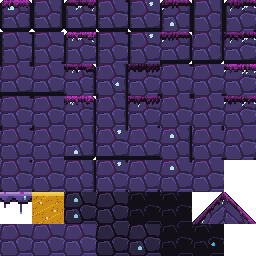
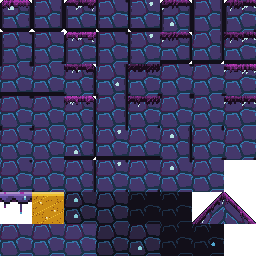
Pass 560: the Evercrown's cells are lit by their pores (#631)
The Evercrown's tiles were violet on a wine backdrop (the pass 555 grade's
leftover). paint_meteor keeps its black-violet body; the lit rim of each cell
is sky-3 and the cool seams sky-1, the cyan pores' light. The atlas's mean hue
moves from 261 to 246, 49 degrees off the haze. Design bible 12.50.

diff --git a/tools/art/test_tilegen.py b/tools/art/test_tilegen.py
@@ -1207,6 +1207,41 @@ def test_the_evercrown_keeps_red_for_what_hurts():
         assert _uses(tg.Image.open(root / rel), ember) == 0, f"{rel} carries no ember"
 
 
+def _hue(rgb):
+    import colorsys
+    return colorsys.rgb_to_hls(rgb[0] / 255, rgb[1] / 255, rgb[2] / 255)[0] * 360
+
+
+def test_the_evercrown_cells_are_lit_by_their_pores():
+    # Design bible 12.50 (pass 560): the Evercrown's tiles were violet on a wine
+    # backdrop, a smaller hue step than Vorrhallow's. The cells keep a black-violet
+    # body (the night ramp), and their lit rim and cool seams are on the sky ramp
+    # (sky-3, sky-1): the cyan pores' light. The warm seams stay wine. (Putting the
+    # rim back on night-3 or the seam on night-1 fails; so does a blue body.)
+    T = tg.T
+    tile = tg.Image.new("RGBA", (T, T), tg.CLEAR)
+    tg.paint_meteor(tile, 0, 0, 101, "night")
+    n = T * T
+    body = _uses(tile, {tg.c("night-2")[:3]})
+    rim = _uses(tile, {tg.c("sky-3")[:3]})
+    cool = _uses(tile, {tg.c("sky-1")[:3]})
+    warm = _uses(tile, {tg.c("crystal-1")[:3]})
+    assert body / n >= 0.5, f"the cells' body is black-violet ({body}/{n})"
+    assert 0.08 <= rim / n <= 0.3, f"the lit rim is the pores' blue, a line not a fill ({rim}/{n})"
+    assert cool > 0 and warm > 0, "the seams are cool shadow and wine sinew"
+    assert _uses(tile, {tg.c("night-3")[:3], tg.c("night-1")[:3]}) == 0, "no violet rim or seam is left"
+    # The fill's mean hue leaves the night ramp's violet (about 255) for indigo,
+    # away from the wine haze (about 295).
+    px = tile.load()
+    mean = [sum(px[x, y][i] for x in range(T) for y in range(T)) / n for i in range(3)]
+    assert _hue(mean) <= 250, f"the fill's mean hue is indigo ({_hue(mean):.0f})"
+    assert _hue(tg.c("night-2")) - _hue(mean) >= 4, "the fill is cooler than its body"
+    # Only whole world pixels (12.28) and the committed atlas agrees.
+    root = Path(__file__).resolve().parents[2]
+    atlas = tg.Image.open(root / "assets/tiles/evercrown.png")
+    assert _uses(atlas, {tg.c("sky-3")[:3]}) > 0, "the committed atlas carries the cool rim"
+
+
 def test_evercrown_floor_stubs_do_not_pass_for_spikes():
     # Design bible 12.48: the floor's crystal stubs were tall bright splinters, the
     # shape and brightness of a row of spikes. They are short (under a spike's 10

diff --git a/tools/art/tilegen.py b/tools/art/tilegen.py
@@ -385,12 +385,21 @@ def paint_drowned(img, ox, oy, seed, ramp):
 
 
 MEAT_CELLS = 3
+# The Evercrown's cells take their light from the cyan pores (design bible 12.50,
+# pass 560): the body stays black-violet (the zone's ramp), and the lit upper rim
+# and the cool seams are on the sky ramp at the values the night ramp had there.
+# The tile's hue then sits a step further from the wine backdrop (12.48) without
+# a colour off the master palette. The warm seams stay wine (crystal-1).
+MEAT_RIM = "sky-3"
+MEAT_SEAM_COOL = "sky-1"
+MEAT_SEAM_WARM = "crystal-1"
 
 
 def paint_meteor(img, ox, oy, seed, ramp):
     """the Evercrown, the inside of the Everbloom: organic stone grown in rounded cells
-    like a honeycomb of scar tissue, black-violet, with wine-dark sinew in the
-    seams and the odd pore of alien cyan light.
+    like a honeycomb of scar tissue, black-violet, with wine-dark sinew and cool
+    shadow in the seams, the odd pore of alien cyan light, and that light on the
+    upper rim of every cell (12.50).
 
     Calm fill (design bible 12.28, pass 534): the cells are broad (two per tile, not
     three) and wrap across tile edges, each a flat body of one value with a lit rim only
@@ -418,9 +427,9 @@ def paint_meteor(img, ox, oy, seed, ramp):
             if edge < 1.0 * D:
                 # Wine sinew, not red: in the Evercrown the ember ramp belongs to
                 # what hurts (bible 12.48).
-                col = "crystal-1" if hash2(gx + gy, 0, MEAT_CELLS + 4) > 0.55 else f"{ramp}-1"
+                col = MEAT_SEAM_WARM if hash2(gx + gy, 0, MEAT_CELLS + 4) > 0.55 else MEAT_SEAM_COOL
             elif edge < 2.0 * D and y < py:
-                col = f"{ramp}-{shade + 1}"   # the lit upper rim of the cell
+                col = MEAT_RIM   # the lit upper rim of the cell, in the pores' light
             else:
                 col = f"{ramp}-{shade}"
             if d1 < 1.0 * D and hash2(gx, gy, seed + 6) > 0.95:

diff --git a/docs/loop/pass-560.md b/docs/loop/pass-560.md
@@ -1,0 +1,83 @@
+# Pass 560: the Evercrown's cells are lit by their pores
+
+## Category
+
+Art cohesion, the last piece of the pass 555 grade's crystal-hall item (4.2/10): "the Evercrown's
+tiles are still violet on a wine backdrop, a smaller hue step than Vorrhallow's" (left open by
+passes 558 and 559).
+
+No note from Sean was new. The queue's first item (lighting and depth) is parked for a watched
+session; its second and third (the Haar Wyrm fight frame, the Haar's fog on the drowned stair) still
+wait for the `hydra-cistern-fight` and `haar-steam` branches. This was the next. Pass 559 named the
+foes' style families as next: a lineup of every foe's idle (`tools/art/lineup.tscn`) shows the
+outlier is the Blinkhop, a smooth round blob beside HD figures, and a remake of it is a redesign
+that needs a base and Sean's OK, with three bases already waiting. It stays queued, now named. The
+PixelLab art loop stays **gated** on Sean: three guardian bases (Haar Wyrm, Thane Vorrund, Drowned
+Warden) wait for his OK, the limit of three. No PixelLab generations were spent, and no Autosprite
+credits. The hosted workbench is still down (its Vercel Blob store is suspended); it stays under
+"stuck" for Sean. `README.md`'s playtest link already points at `sagedragoon79/Yldenfall`.
+
+## Audit
+
+- Shot `evercrown/threshold`, `veins` and `heart`. Every colour of the tile fill is on the night
+  ramp (hue about 255); the haze is a wine at hue 295. On the committed atlas the mean hue of the
+  opaque pixels was 261, 34 degrees from the haze.
+- The master palette has no indigo ramp: night is 255, sky is 210.
+- Trials, each shot in `threshold`: a hue shift of the atlas by 28 degrees (reads best, but off the
+  palette); the body on sky-2 with a sky-3 rim (a blue cave: the largest step, but it loses the
+  zone's black-violet and no longer matches the shelves, hangers and stele); the body on sky-1 (too
+  dark, ledges lose their edge); a sky-3 rim on the night body (a small step); a sky-3 rim and
+  sky-1 cool seams on the night body (close to the hue-shift trial, in palette).
+
+## What was built
+
+- **`tools/art/tilegen.py`**: `paint_meteor` keeps its night-2 body. The lit upper rim of each cell
+  is `MEAT_RIM` (sky-3, where night-3 was) and the seams that are not wine sinew are
+  `MEAT_SEAM_COOL` (sky-1, where night-1 was). `MEAT_SEAM_WARM` names the wine seam (crystal-1).
+- Regenerated: `assets/tiles/evercrown.png`. The tile script again rewrote five
+  `assets/bg/*_mid.png` files that differ from run to run; those were put back.
+- Design bible 12.50 (new); the Evercrown's line in 12's zone list names it.
+
+## Judged by eye
+
+At 1x in `threshold`, `veins`, `heart` and `proving_scar` and at 3x on a pillar in `threshold`,
+before and after. The rock reads as an indigo mass: each cell carries a cool glint along its upper
+side, the light of the cyan pores beside it, and the wine tendrils, ridge and far wall fall behind
+the play layer instead of sharing its purple. The floor of `threshold` measures hue 237 where it
+measured 251, at the same luminance (55 against 53). At 3x the rim is a clean one-world-pixel
+line; it is the most saturated thing in the fill, so it is kept to the rim and not the body.
+
+Not done: the grown shelves, hangers and the stele are still all-violet (night ramp). They read
+well against the wine, so they were left; a cool glint on the shelf's lit top is a possible
+follow-on if a grade names them.
+
+## Tests
+
+`tests/test_backdrop.gd`: `test_the_evercrowns_tiles_stand_off_its_wine_haze` (6 checks).
+`tools/art/test_tilegen.py` (run by hand, 69 guards pass):
+`test_the_evercrown_cells_are_lit_by_their_pores`.
+
+Mutation check: with the old atlas put back, 3 of the Godot test's 6 checks fail; with `MEAT_RIM`
+and `MEAT_SEAM_COOL` back on the night ramp, the Python guard fails.
+
+## Rubric (design bible 15.3)
+
+| Category | Weight | Score | Notes |
+| --- | --- | --- | --- |
+| Movement feel | 20 | 99 | Unchanged. |
+| Combat and enemies | 15 | 99 | Unchanged. |
+| World and level design | 15 | 99 | Unchanged; one-template rooms and the empty mid-ground remain. |
+| Art cohesion | 15 | 98 | Unchanged in score. The Evercrown's play layer stands off its backdrop in hue as well as value. The HD hero, the Blinkhop and the guardian bases (gated art loop) remain. |
+| Bosses | 10 | 99 | Unchanged. |
+| Systems | 10 | 99 | Unchanged. |
+| Audio | 5 | 99 | Unchanged. |
+| Stability and performance | 5 | 99 | Unchanged. |
+| Story and world | 5 | 99 | Unchanged. |
+
+Weighted: 98.85. Full suite: 15,185 checks passed, 0 failed, in one run.
+
+## Next
+
+By the independent grade taken after this pass (see `workbench/grades.json`). Of the queue: the
+Boughs' painterly foliage against the pixel tiles, then one-template rooms. The Haar items wait
+until the hydra and steam branches merge; the Blinkhop waits for a free base slot.

diff --git a/docs/design-bible.md b/docs/design-bible.md
@@ -1184,7 +1184,7 @@ The core (phase 2) has none: no blade reaches it, only the veins.
   - **Heart Stair** (63,-10, 40x45): switchback shelves of stillglass flesh with a Glass Slug, Crystal Dwarf, Shade
     Knights and a Clockwork Hound. At the top, the heart is not open yet.
   - the Evercrown has its own tiles (`paint_meteor`: rounded cells of black-violet scar tissue with wine-dark seams and cyan
-    pores), backdrops (ribbed walls, light veins, a wine glow below; no red, 12.48), decor (polyps, veins, tendrils, wall eyes),
+    pores whose light rims each cell, 12.50), backdrops (ribbed walls, light veins, a wine glow below; no red, 12.48), decor (polyps, veins, tendrils, wall eyes),
     cyan spore motes, a theme (B locrian over a heartbeat, detuned pads) and an ambience (breathing drone, heartbeat,
     glassy whines).
   - **Corrupted foes, as built (pass 78):** every foe spawned in an Evercrown room is `corrupted` (a room header
@@ -2183,6 +2183,15 @@ Left over from 12.48: the spikes in the Flooded Hall's and the Drowned Nave's pi
 Judged by eye at 1x and 4x in both rooms, before and after. `test_spikes_under_the_water_keep_their_rim` holds it: the water knows each sunk cluster and no dry one, finds one set down later, shows the rim at a luminance of at least 0.8 and well above the dimmed one, and knows none once drained.
 
 Not done: the Evercrown's tiles are still violet on a wine backdrop, a smaller hue step than Vorrhallow's.
+
+### 12.50 The Evercrown's cells are lit by their pores (pass 560)
+
+Left over from 12.48 and 12.49: the Evercrown's tiles were violet on a wine backdrop. Every colour of the fill was on the night ramp (hue about 255), 34 degrees from the haze on the committed atlas, where Vorrhallow's lavender stands on a blue. The master palette has no indigo, so the body cannot move without leaving the palette, and a body on the sky ramp reads as a blue cave, not the black-violet of the zone's mood (12.2); a first take showed both.
+
+- **The rim and the cool seams take the pores' light.** `paint_meteor` keeps its black-violet body (night-2). The lit upper rim of each cell is sky-3 (`MEAT_RIM`), the value night-3 had there, and the seams that are not wine sinew are sky-1 (`MEAT_SEAM_COOL`) where they were night-1. The wine seams (`MEAT_SEAM_WARM`, crystal-1) and the cyan pores are as before. The light on a cell is now the light the zone makes.
+- Nothing else moves: the cap, the grown shelf (12.34), the hangers, the stele and collision are untouched, and red is still for what hurts (12.48).
+
+After: the mean hue of the atlas's opaque pixels goes from 261 to 246, 49 degrees off the haze; the floor of `evercrown/threshold` measures hue 237 where it measured 251, at the same luminance. Judged by eye at 1x and 3x in `threshold`, `veins`, `heart` and `proving_scar`, before and after: the rock reads as an indigo mass with a cool glint on each cell, and the wine tendrils and ridge fall behind it. `assets/tiles/evercrown.png` is regenerated. `test_the_evercrowns_tiles_stand_off_its_wine_haze` holds the atlas to the haze; `test_the_evercrown_cells_are_lit_by_their_pores` in `tools/art/test_tilegen.py` holds the painter.
 
 ## 13. Asset Production Plan
 
